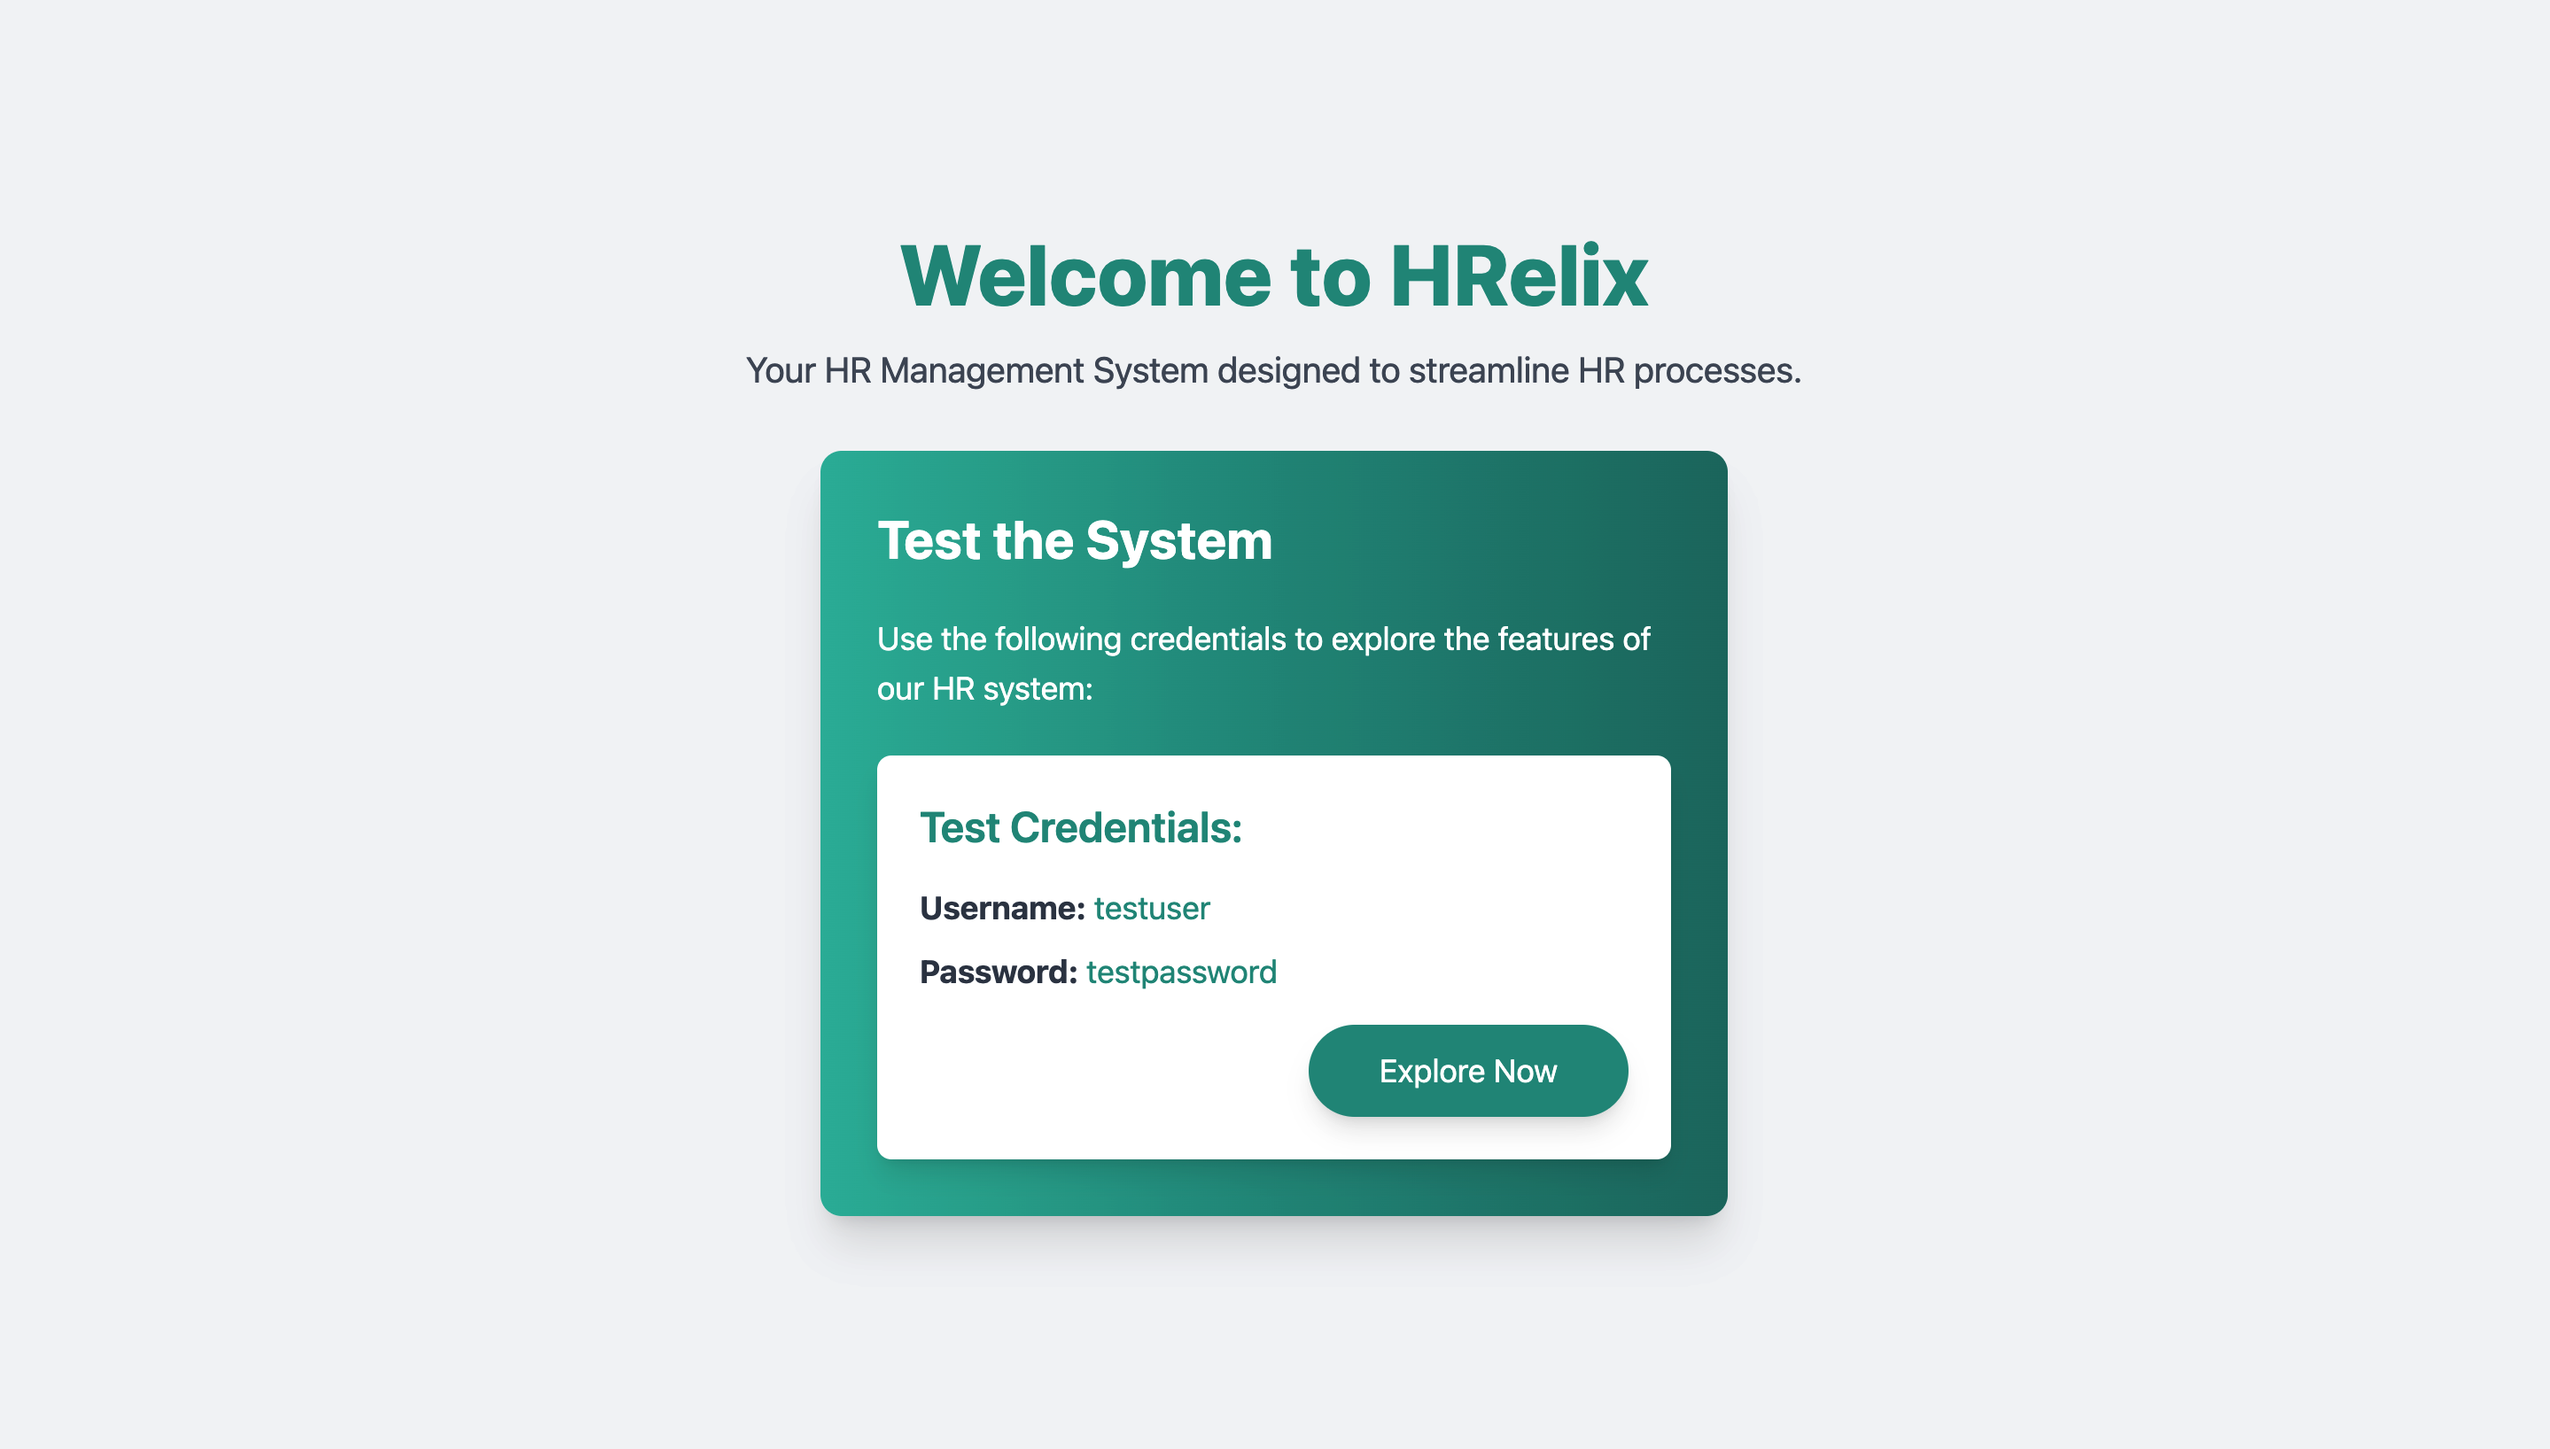
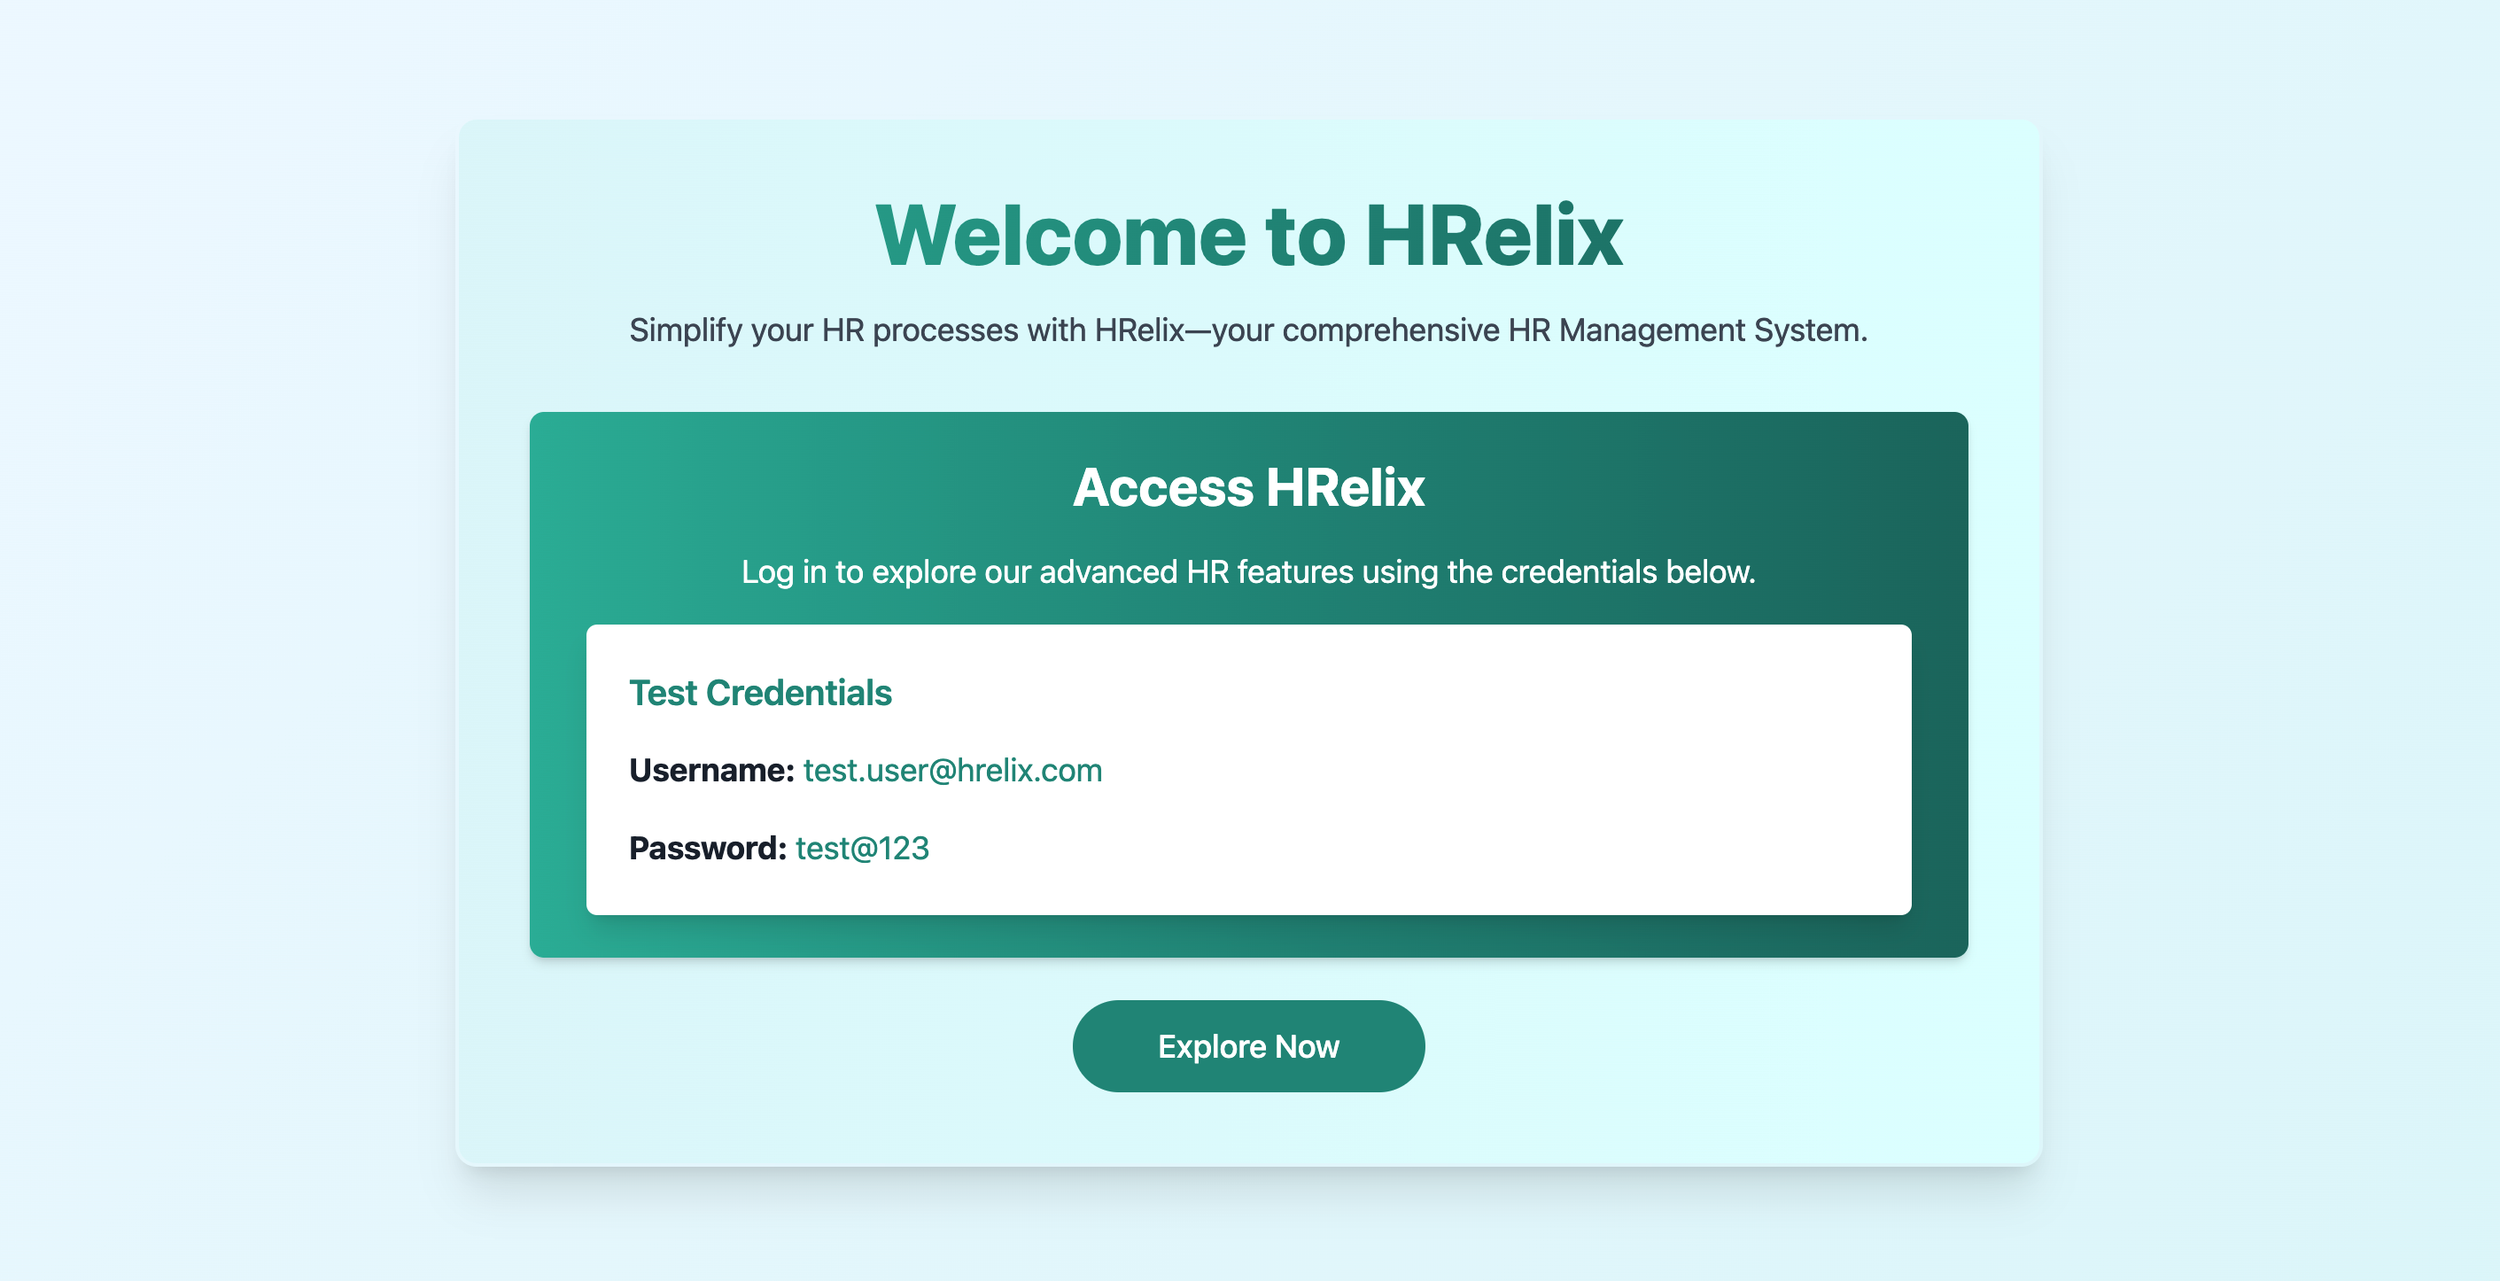
feat: release version v2.0.1

diff --git a/src/main/resources/templates/index.html b/src/main/resources/templates/index.html
@@ -6,35 +6,66 @@
     <title>Welcome to HRelix</title>
     <!-- Tailwind CSS CDN -->
     <script src="https://cdn.tailwindcss.com"></script>
-</head>
-<body class="font-sans bg-gray-100 text-gray-900">
+    <style>
+        body {
+            background: linear-gradient(135deg, #f0f9ff, #e0f7fa);
+            height: 100vh;
+            overflow: hidden;
+        }
 
-<div class="min-h-screen flex flex-col justify-center items-center px-4">
+        .glass-card {
+            background: rgba(255, 255, 255, 0.75);
+            backdrop-filter: blur(10px);
+        }
+
+        .gradient-border {
+            border: 2px solid transparent;
+            background: linear-gradient(to right, #e0f7fa, #e0ffff);
+            background-clip: padding-box, border-box;
+            background-origin: border-box;
+        }
+    </style>
+</head>
+<body class="font-sans text-gray-900 flex justify-center items-center">
+
+<div class="w-full max-w-4xl glass-card rounded-xl shadow-xl gradient-border p-10 mx-4">
+    <!-- Header Section -->
     <div class="text-center mb-8">
-        <h1 class="text-5xl font-extrabold text-teal-600">Welcome to HRelix</h1>
-        <p class="mt-4 text-xl text-gray-600">Your HR Management System designed to streamline HR processes.</p>
+        <h1 class="text-5xl font-extrabold bg-clip-text text-transparent bg-gradient-to-r from-teal-500 via-teal-600 to-teal-700">
+            Welcome to HRelix
+        </h1>
+        <p class="mt-4 text-lg text-gray-600 leading-relaxed">
+            Simplify your HR processes with HRelix—your comprehensive HR Management System.
+        </p>
     </div>
 
-    <!-- Enhanced Welcome Card -->
-    <div class="bg-gradient-to-r from-teal-500 via-teal-600 to-teal-700 rounded-xl shadow-xl p-8 w-full max-w-lg transform transition-all hover:scale-105 duration-300">
-        <h2 class="text-3xl font-bold text-white mb-6">Test the System</h2>
-        <p class="text-lg text-white mb-6">Use the following credentials to explore the features of our HR system:</p>
-
-        <!-- Test Credentials Card -->
-        <div class="bg-white p-6 rounded-lg shadow-lg space-y-4">
-            <h3 class="text-2xl font-semibold text-teal-600">Test Credentials:</h3>
-            <div class="space-y-2">
-                <p class="text-lg text-gray-700"><span class="font-bold">Username:</span> <span class="text-teal-600">testuser</span>
+    <!-- Credentials Section -->
+    <div class="bg-gradient-to-r from-teal-500 via-teal-600 to-teal-700 text-white rounded-lg px-8 py-6 shadow-md">
+        <h2 class="text-3xl font-bold text-center mb-4">Access HRelix</h2>
+        <p class="text-center text-lg mb-4">
+            Log in to explore our advanced HR features using the credentials below.
+        </p>
+        <div class="bg-white p-6 rounded-md shadow-lg text-gray-800">
+            <h3 class="text-xl font-semibold text-teal-600 mb-4">Test Credentials</h3>
+            <div class="space-y-4">
+                <p class="text-lg">
+                    <span class="font-bold">Username:</span>
+                    <span class="text-teal-600">test.user@hrelix.com</span>
                 </p>
-                <p class="text-lg text-gray-700"><span class="font-bold">Password:</span> <span class="text-teal-600">testpassword</span>
+                <p class="text-lg">
+                    <span class="font-bold">Password:</span>
+                    <span class="text-teal-600">test@123</span>
                 </p>
-            </div>
-            <div class="mt-6 flex justify-end">
-                <a class="bg-teal-600 text-white py-3 px-10 rounded-full text-lg hover:bg-teal-700 transition-all ease-in-out duration-300 transform hover:scale-105 shadow-lg"
-                   href="/api/v1/login">Explore
-                    Now</a>
             </div>
         </div>
+    </div>
+
+    <!-- Call-to-Action -->
+    <div class="mt-6 flex justify-center">
+        <a class="bg-teal-600 text-white py-3 px-12 rounded-full text-lg font-medium hover:bg-teal-700 hover:shadow-xl transition-all ease-in-out duration-300 transform hover:scale-105"
+           href="/api/v1/login">
+            Explore Now
+        </a>
     </div>
 </div>
 

diff --git a/README.md b/README.md
@@ -168,11 +168,11 @@ These endpoints handle admin-related operations such as `create-new-employee`, `
 
 These endpoints handle employee-related operations such as creating, reading, updating, and deleting employee records.
 
-| HTTP Method | Endpoint                     | Description                          | Access Role |
-|-------------|------------------------------|--------------------------------------|-------------|
-| **POST**    | `/api/v1/employees/register` | Create a new employee                | ADMIN, HR   |
-| **GET**     | `/api/v1/employees`          | Get a list of all employees          | ADMIN, HR   |
-| **GET**     | `/api/v1/employees/{id}`     | Get a employee detail by employee id | ADMIN, HR   |
+| HTTP Method | Endpoint                     | Description                                                                                                         | Access Role |
+|-------------|------------------------------|---------------------------------------------------------------------------------------------------------------------|-------------|
+| **POST**    | `/api/v1/employees/register` | Create a new employee                                                                                               | ADMIN, HR   |
+| **GET**     | `/api/v1/employees`          | Get a list of all employees *(this endpoint is open to all for testing but needs access toke, so login before use)* | OPEN        |
+| **GET**     | `/api/v1/employees/{id}`     | Get a employee detail by employee id                                                                                | ADMIN, HR   |
 
 > *This project is still under development and more endpoints and features will be updated.*
 
